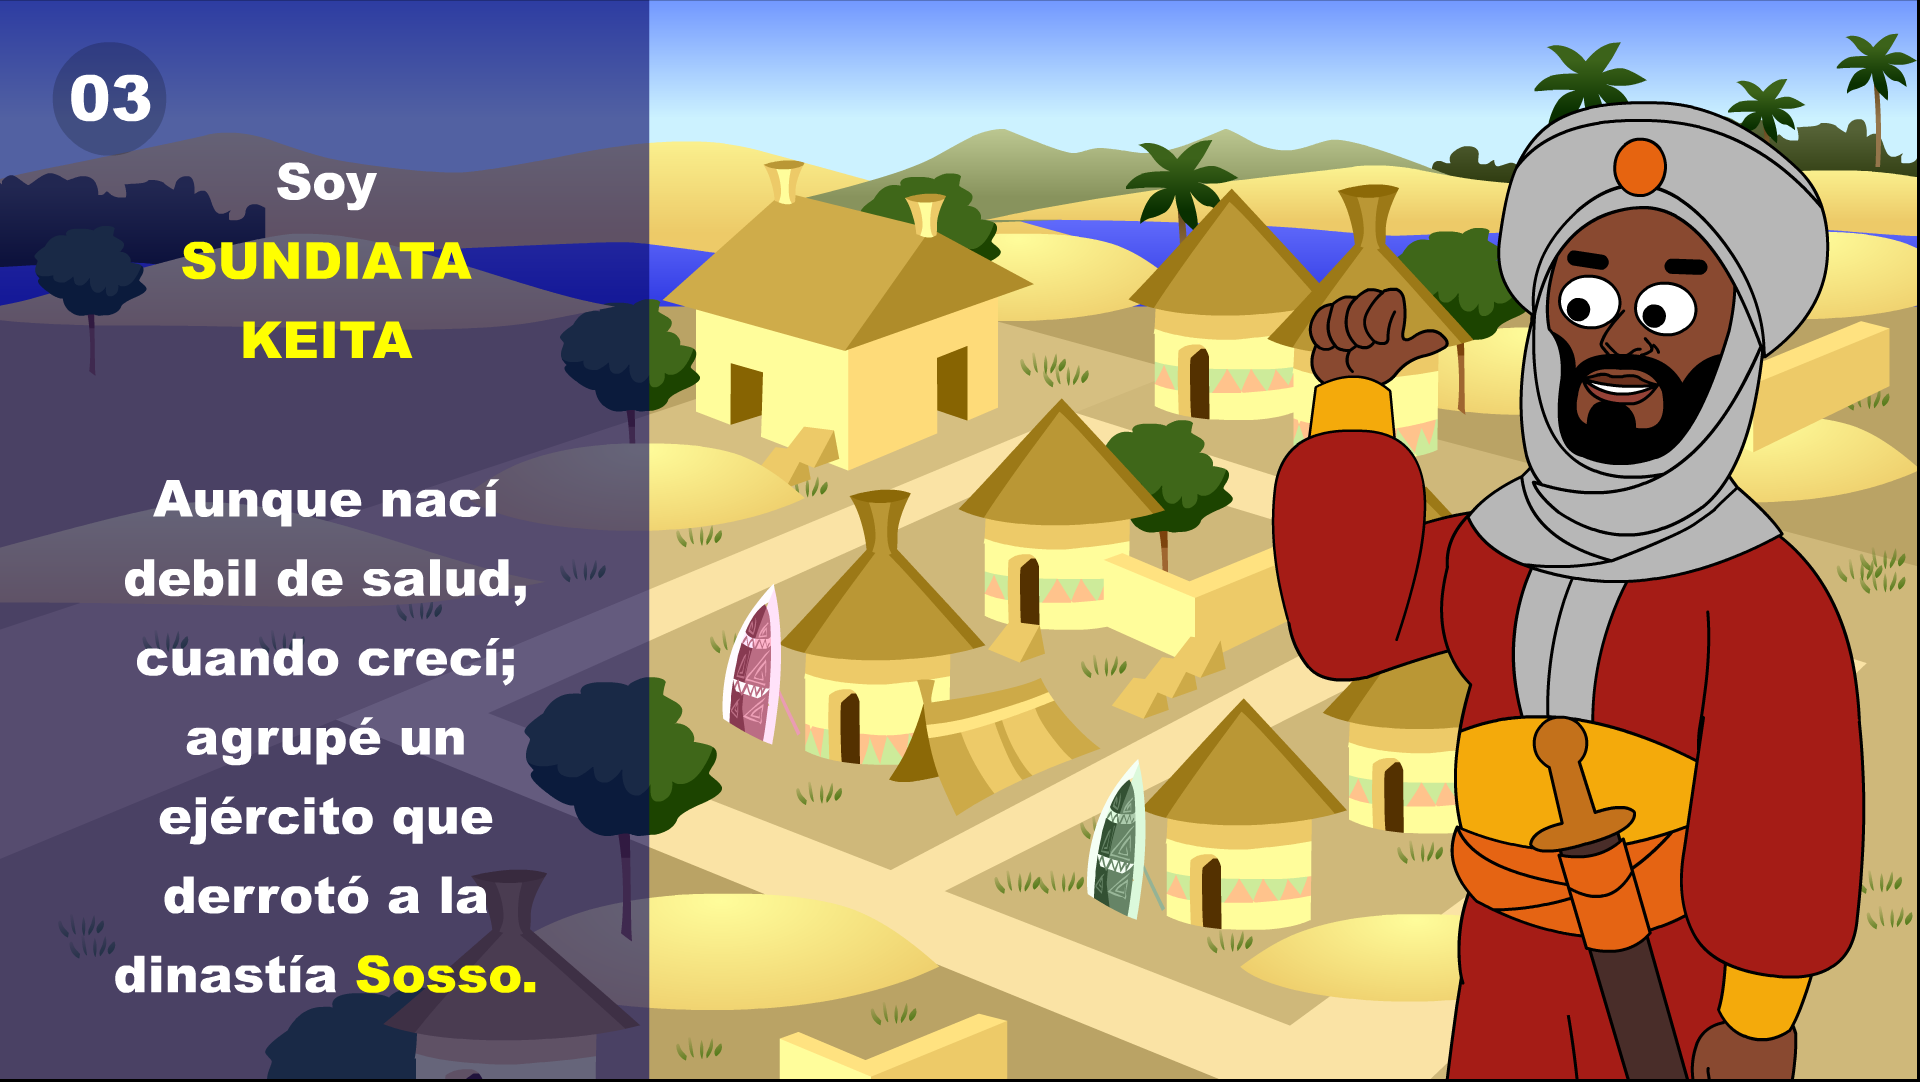
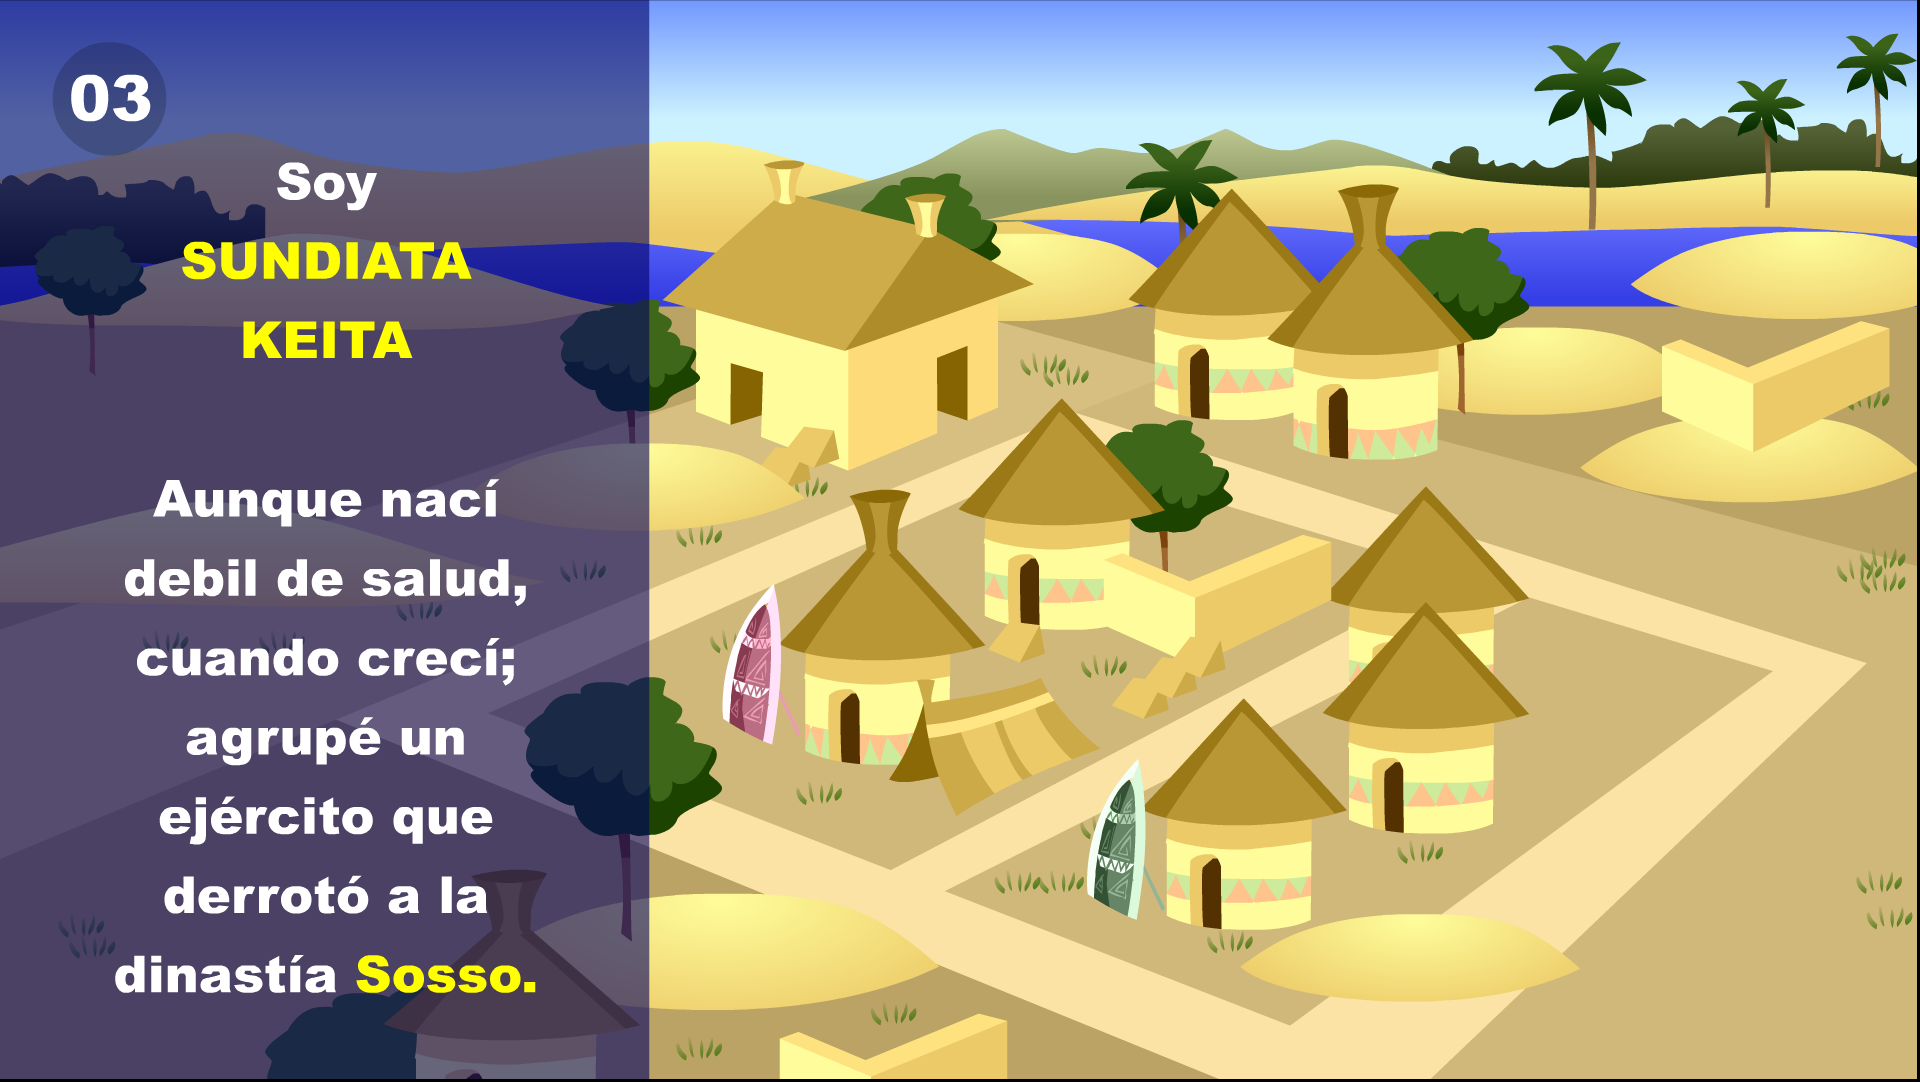
Story Cap 1

Changed region(s): [[0.6562, 0.0915, 0.9688, 1.0]]

diff --git a/app/static/assets/js/capitulo1.js b/app/static/assets/js/capitulo1.js
@@ -47,7 +47,7 @@ document.getElementById('mainpage').appendChild(app.view);
 var c = new Charm(PIXI);
 // Se define el fondo de los capítulos
 
-let fondo = PIXI.Sprite.from('../static/assets/img/fondo_.png');
+let fondo = PIXI.Sprite.from('../static/assets/img/fondocapitulo1.png');
 fondo.width = widhwindow;
 fondo.height = heightwindow;
 fondo.anchor.set(0.5);
@@ -111,6 +111,14 @@ function wait(ms){
  }
 
 function startup() {
+    iTitulo = PIXI.Sprite.from(loader.resources.titulo.texture);
+    ratioTitulo = iTitulo.width / iTitulo.height;
+    iTitulo.anchor.set(0.5);
+    iTitulo.scale.set((300*widthRelativo)/(iTitulo.width));
+    iTitulo.position.set(widhwindow/2, heightwindow/14);
+    iTitulo.visible = false;
+    app.stage.addChild(iTitulo);
+
     console.log("ruta: "+ loader.resources.story1.data.url);
     let urlsStory = loader.resources.story1.data.url;
     frames = [];
@@ -123,8 +131,6 @@ function startup() {
     rStory1 = new PIXI.AnimatedSprite(frames);
     rStory1.onComplete = function () {
         console.log("Termino load Storyboard");
-        //console.log(rStory1.currentFrame);
-        //window.location.href = url_base + "menu";
     };
     ratioTitulo = rStory1.width / rStory1.height;
     rStory1.anchor.set(0.5);
@@ -171,10 +177,11 @@ function startup() {
 
     rVideointro = new PIXI.AnimatedSprite(frames);
     rVideointro.onComplete = function () {
-        console.log("Termino load rVideointro");
-        //console.log(rStory1.currentFrame);
-        //window.location.href = url_base + "menu";
+        console.log("Termino load rVideointro "+rStory1.currentFrame);
+        rStory1.gotoAndStop(1);
+        rVideointro.visible = false;
     };
+
     ratioTitulo = rVideointro.width / rVideointro.height;
     rVideointro.anchor.set(0.5);
     rVideointro.animationSpeed = 0.2;
@@ -182,8 +189,8 @@ function startup() {
     rVideointro.width = widhwindow;
     rVideointro.position.set(widhwindow / 2, heightwindow / 2);
     rVideointro.loop = false;
-    rVideointro.play();
     rVideointro.visible = true;
+    //rVideointro.play();
     app.stage.addChild(rVideointro);
 
     menuCapitulos = new PIXI.Container();
@@ -298,6 +305,12 @@ function startup() {
 
 }
 
+loader.onComplete.add(() => {
+    console.log("Terminado el loader");
+    rVideointro.play();
+});
+
+
 setup();
 function setup(delta) {
     console.log("inicializando");
@@ -310,7 +323,8 @@ function gameloop(delta) {
 
 function capitulo1() {
     fondo.visible = true;
-    pPrincipal.visible = true;
+    //pPrincipal.visible = true;
+    iTitulo.visible = true;
 }
 
 function onMouseOverBoton() {

diff --git a/app/static/assets/js/fondos.js b/app/static/assets/js/fondos.js
@@ -209,7 +209,7 @@ function startup() {
     bInicio.anchor.set(0.5);
     bInicio.x = 60;
     bInicio.y = heightwindow - 60;
-    app.stage.addChild(bInicio);
+    //app.stage.addChild(bInicio);
 
     // boton volver
     var bAtras = PIXI.Sprite.from('../static/assets/img/botones/atras.png');
@@ -239,7 +239,7 @@ function startup() {
     bMenu.anchor.set(0.5);
     bMenu.x = widhwindow - 60;
     bMenu.y = heightwindow - 60;
-    app.stage.addChild(bMenu);
+    //app.stage.addChild(bMenu);
 
     // boton pergamino
     var bPergamino = PIXI.Sprite.from('../static/assets/img/botones/pergamino.png');
